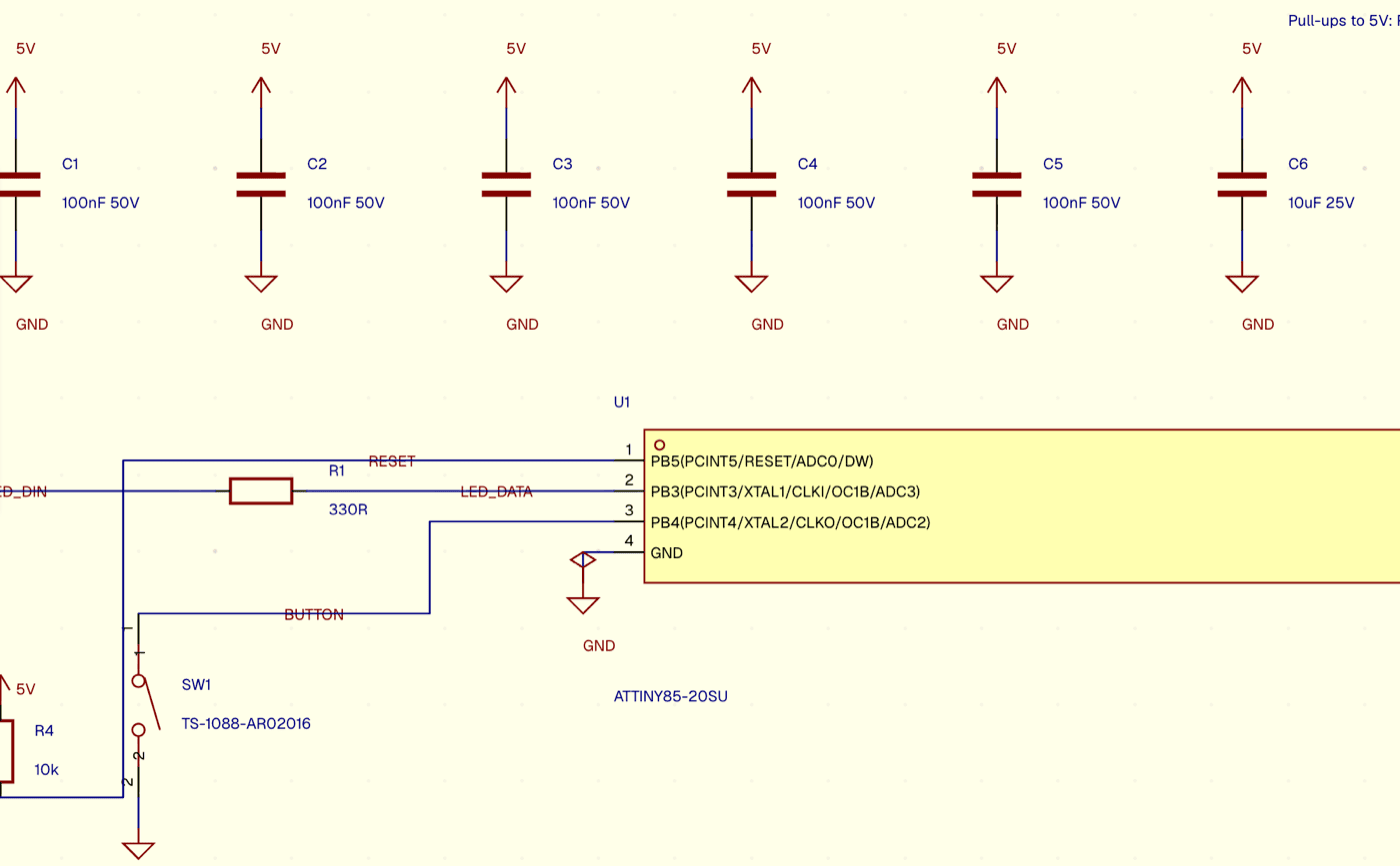
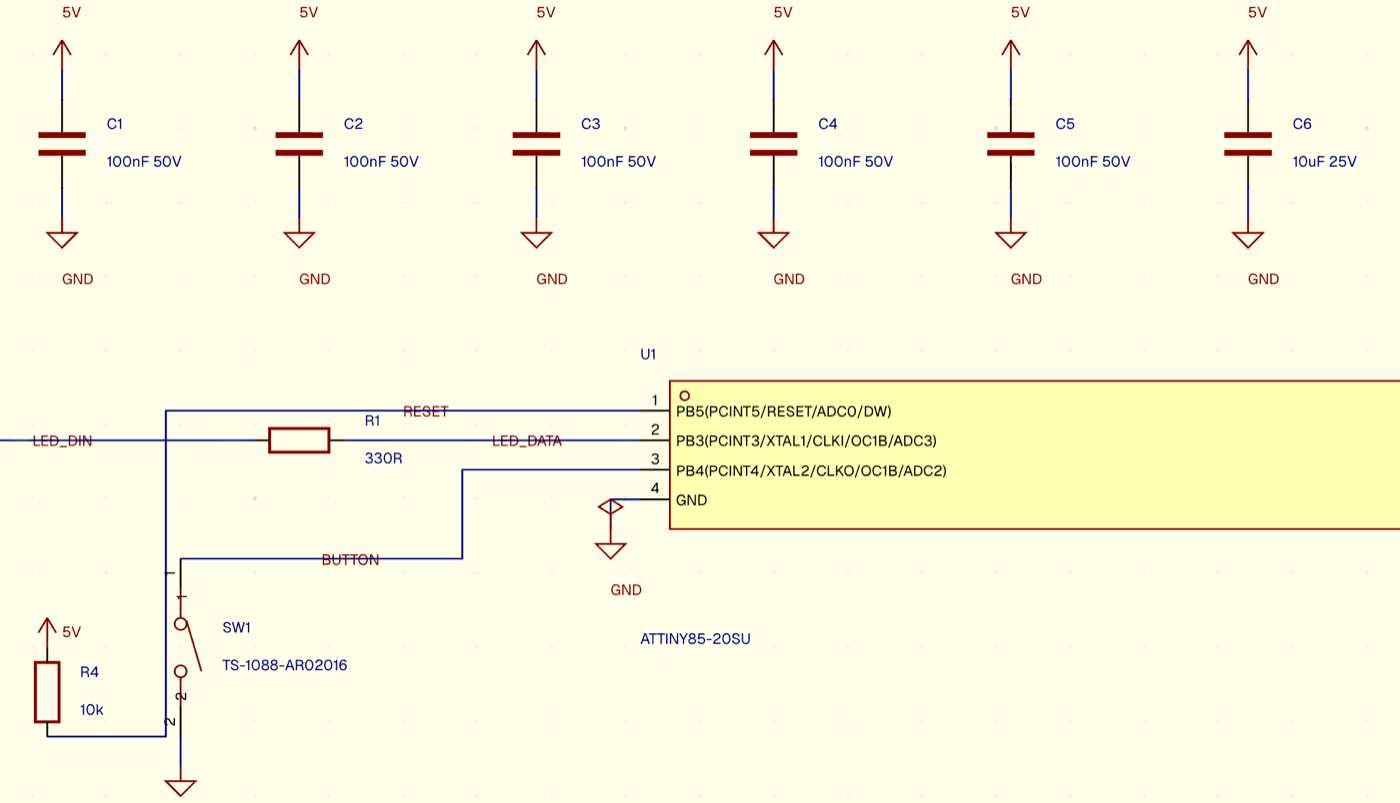
README screenshots: board id blanked, schematic and alt text corrected (#8)
Follow-up to #7 from the reviews of it and its monorepo port (HeyPCB/HeyPCB#1496): the test board's project id is blanked in the Claude Code shot, the schematic is re-cropped so LED_DIN and R4 are whole, the alt text matches what each picture shows (the pour measured, the answer quoted in full), and the preview_board picture follows the tool group that lists it.

diff --git a/README.md b/README.md
@@ -38,7 +38,7 @@ the ATtiny85:
 
 ![The board's PCB in the heypcb.ai editor: a 40 by 20 mm two-layer board with the USB-C connector J1 at the left edge, the ISP header J2, four WS2812B LEDs D1 to D4 along the top, their capacitors, and the button SW1, all routed, with a copper pour](https://raw.githubusercontent.com/HeyPCB/heypcb-mcp/main/docs/images/board-pcb.png)
 
-![Part of the board's schematic in the heypcb.ai editor: the decoupling capacitors C1 to C5 (100nF) and C6 (10uF) on 5V, and the ATtiny85 U1 with RESET on PB5 pulled up by R4 10k, LED_DATA on PB3 through R1 330R to LED_DIN, and the button SW1 on PB4](https://raw.githubusercontent.com/HeyPCB/heypcb-mcp/main/docs/images/board-schematic.png)
+![Part of the board's schematic in the heypcb.ai editor: the decoupling capacitors C1 to C5 (100nF) and C6 (10uF) on 5V, and the left side of the ATtiny85 U1, with RESET on PB5 pulled up by R4 10k, LED_DATA on PB3 through R1 330R to LED_DIN, and the button SW1 on PB4](https://raw.githubusercontent.com/HeyPCB/heypcb-mcp/main/docs/images/board-schematic.png)
 
 ### Change it by asking
 
@@ -47,11 +47,11 @@ answer once Inky finished. `ask_inky` returns while Inky is still working;
 the 7 minutes of `wait_for_turn` calls in between are cut at the dashed
 line:
 
-![A Claude Code session: the request to make the board 48 mm long with two M2 mounting holes at the right end, Claude's call to heypcb's Ask Inky tool with the project and that message, and, below a dashed line where the wait is cut, Claude's answer after Inky finished: 48 by 20 mm, two 2.2 mm holes for M2 screws, parts and routing unchanged, 0 DRC errors, and a note that the last save has not been re-checked yet](https://raw.githubusercontent.com/HeyPCB/heypcb-mcp/main/docs/images/claude-code-ask-inky.png)
+![A Claude Code session: the request to make the board 48 mm long with two M2 mounting holes at the right end, Claude's call to heypcb's Ask Inky tool with the project and that message, and, below a dashed line where the wait is cut, Claude's answer after Inky finished: 48 by 20 mm, two 2.2 mm holes for M2 screws, the parts and routing where they were, all 51 connections routed with 3 more vias (now 30), 0 DRC errors, and a note that the last save has not been re-checked yet](https://raw.githubusercontent.com/HeyPCB/heypcb-mcp/main/docs/images/claude-code-ask-inky.png)
 
 The board before and after, at the same scale:
 
-![get_board_image's 3D render of the board before and after the change, at the same scale: before, 40 by 20 mm; after, 48 by 20 mm, with the same parts in the same places and two M2 mounting holes at the right end](https://raw.githubusercontent.com/HeyPCB/heypcb-mcp/main/docs/images/ask-inky-before-after.png)
+![get_board_image's 3D render of the board before and after the change, at the same scale: before, 40 by 20 mm; after, 48 by 20 mm, with the same parts in the same places and two M2 mounting holes at the right end, the copper pour extended a little and kept clear of them](https://raw.githubusercontent.com/HeyPCB/heypcb-mcp/main/docs/images/ask-inky-before-after.png)
 
 ## Quick start
 
@@ -177,11 +177,6 @@ tools are rate-limited.
 
 </details>
 
-`preview_board` shows your agent what it built. Here it highlights the
-LEDs' data chain, from the series resistor through D1 to D4:
-
-![preview_board's picture of the same board: every track dimmed, and the four nets of the WS2812B data chain, LED_DIN, LED_1_TO_2, LED_2_TO_3 and LED_3_TO_4, drawn bright cyan](https://raw.githubusercontent.com/HeyPCB/heypcb-mcp/main/docs/images/preview-board.png)
-
 <details>
 <summary><b>See, measure and go back</b></summary>
 
@@ -202,6 +197,11 @@ LEDs' data chain, from the series resistor through D1 to D4:
 | `get_guide` | The playbook for designing a board with these tools yourself. |
 
 </details>
+
+`preview_board` shows your agent what it built. Here it highlights the
+LEDs' data chain, from the series resistor through D1 to D4:
+
+![preview_board's picture of the same board: every track dimmed, and the four nets of the WS2812B data chain, LED_DIN, LED_1_TO_2, LED_2_TO_3 and LED_3_TO_4, drawn bright cyan](https://raw.githubusercontent.com/HeyPCB/heypcb-mcp/main/docs/images/preview-board.png)
 
 ## The local server (this package)
 
